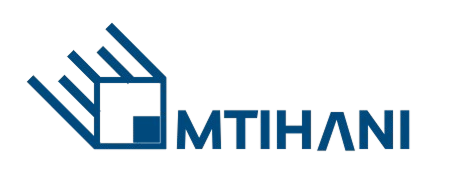
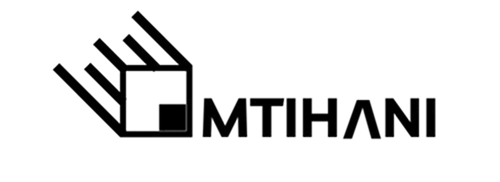
Convert app theme to monochrome

Changed region(s): [[0.0619, 0.0549, 0.9292, 0.7967]]

diff --git a/lib/utils/theme/app_theme.dart b/lib/utils/theme/app_theme.dart
@@ -5,35 +5,64 @@ import 'package:google_fonts/google_fonts.dart';
 
 abstract final class AppTheme {
   static ThemeData light = FlexThemeData.light(
-    scheme: FlexScheme.blueM3,
+    colors: const FlexSchemeColor(
+      primary: Color(0xFF000000), // Black for buttons and accents
+      primaryContainer: Color(0xFFF5F5F5), // Soft gray for cards/containers
+      secondary: Color(0xFF000000),
+      secondaryContainer: Color(0xFFDADADA),
+      tertiary: Color(0xFF000000),
+      tertiaryContainer: Color(0xFFEDEDED),
+      appBarColor: Color(0xFFFFFFFF),
+      error: Color(0xFFBA1A1A),
+      errorContainer: Color(0xFFFFDAD6),
+    ),
     subThemesData: const FlexSubThemesData(
       interactionEffects: true,
-      tintedDisabledControls: true,
       useM2StyleDividerInM3: true,
-      inputDecoratorIsFilled: true,
+      inputDecoratorIsFilled: false,
       inputDecoratorBorderType: FlexInputBorderType.outline,
       alignedDropdown: true,
-      navigationRailUseIndicator: true,
+      buttonMinSize: Size(48, 48),
+      textButtonRadius: 8,
+      elevatedButtonRadius: 8,
+      outlinedButtonRadius: 8,
+      cardRadius: 12,
     ),
+    scaffoldBackground: const Color(0xFFFFFFFF),
     visualDensity: FlexColorScheme.comfortablePlatformDensity,
-    cupertinoOverrideTheme: const CupertinoThemeData(applyThemeToAll: true),
+    cupertinoOverrideTheme:
+        const CupertinoThemeData(brightness: Brightness.light),
     fontFamily: GoogleFonts.figtree().fontFamily,
   );
 
   static ThemeData dark = FlexThemeData.dark(
-    scheme: FlexScheme.blueM3,
+    colors: const FlexSchemeColor(
+      primary: Color(0xFFFFFFFF), // white text on dark background
+      primaryContainer: Color(0xFF1C1C1C),
+      secondary: Color(0xFFCCCCCC),
+      secondaryContainer: Color(0xFF2C2C2C),
+      tertiary: Color(0xFFEDEDED),
+      tertiaryContainer: Color(0xFF444444),
+      appBarColor: Color(0xFF1C1C1C),
+      error: Color(0xFFFFB4AB),
+      errorContainer: Color(0xFF93000A),
+    ),
     subThemesData: const FlexSubThemesData(
       interactionEffects: true,
-      tintedDisabledControls: true,
-      blendOnColors: true,
       useM2StyleDividerInM3: true,
-      inputDecoratorIsFilled: true,
+      inputDecoratorIsFilled: false,
       inputDecoratorBorderType: FlexInputBorderType.outline,
       alignedDropdown: true,
-      navigationRailUseIndicator: true,
+      buttonMinSize: Size(48, 48),
+      textButtonRadius: 8,
+      elevatedButtonRadius: 8,
+      outlinedButtonRadius: 8,
+      cardRadius: 12,
     ),
+    scaffoldBackground: const Color(0xFF121212),
     visualDensity: FlexColorScheme.comfortablePlatformDensity,
-    cupertinoOverrideTheme: const CupertinoThemeData(applyThemeToAll: true),
+    cupertinoOverrideTheme:
+        const CupertinoThemeData(brightness: Brightness.dark),
     fontFamily: GoogleFonts.figtree().fontFamily,
   );
 }
